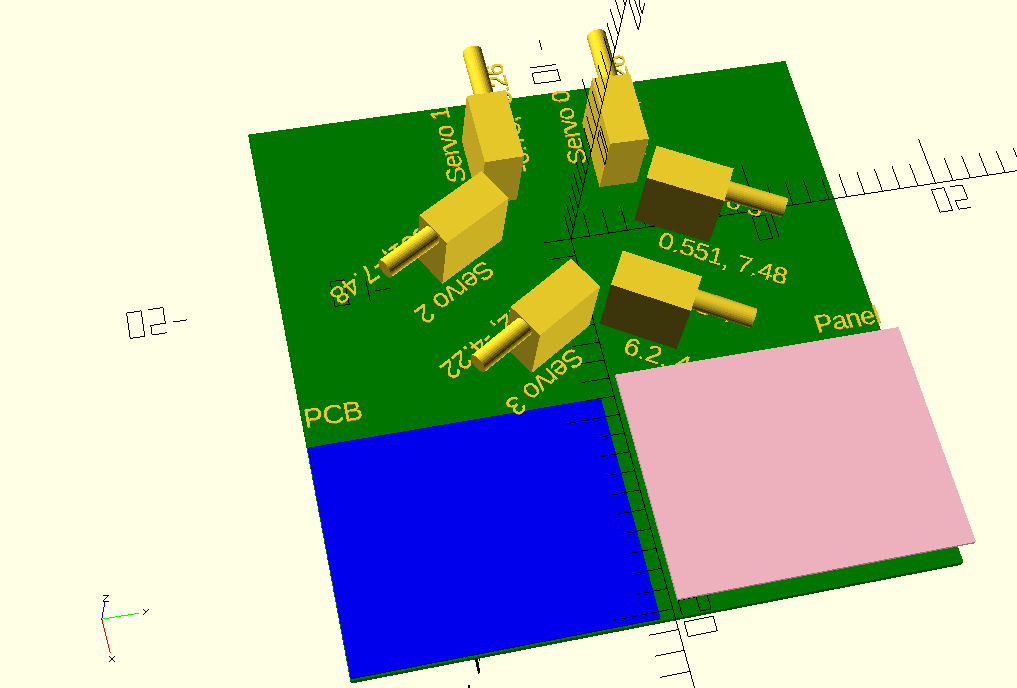
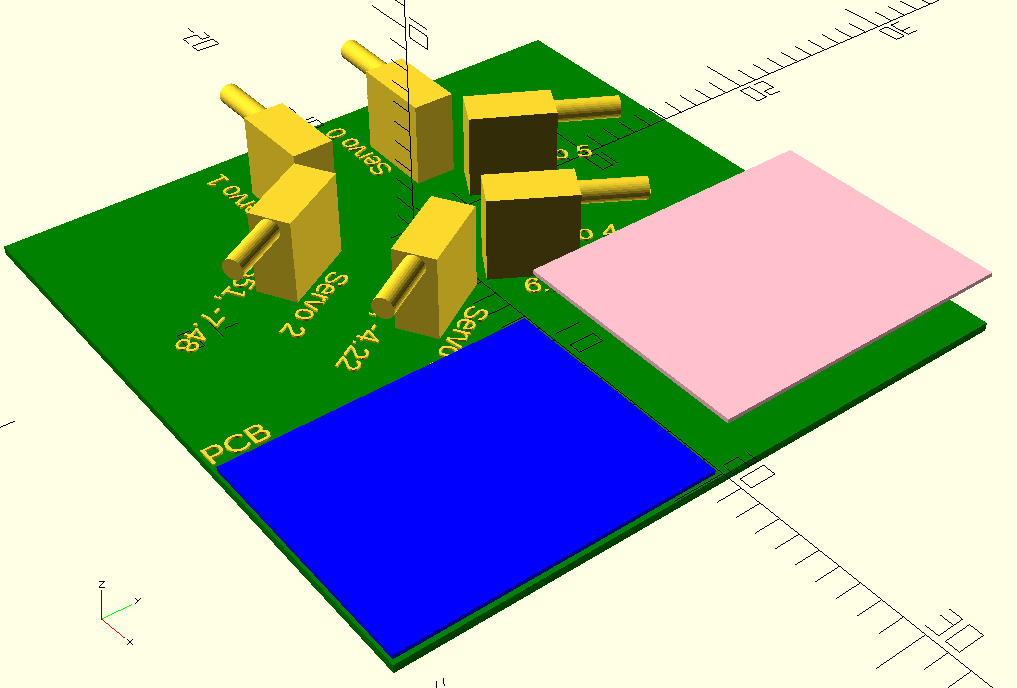
fixes

diff --git a/stewart.cpp b/stewart.cpp
@@ -1509,16 +1509,16 @@ color([1,0,0]) text(name, size=1);\n");
   fprintf (stdout, "radius = %g;\n", base_radius);
   
   // base
-  fprintf (stdout, "translate([-10, -15, -2]) color(\"green\") \
+  fprintf (stdout, "translate([-10, -15, -.5]) color(\"green\") \
 	   cube([30, 30, .4]);\n");
 
   // pcb
-  fprintf (stdout, "translate([8.5, -15, -1.3]) color(\"blue\")		\
+  fprintf (stdout, "translate([8.5, -15, 0.2]) color(\"blue\")		\
 	   cube([11.5, 14.6, .2]);\n");
   fprintf (stdout, "linear_extrude(.1) translate([8, -15, 5.14]) color([1,0,0]) rotate([0, 0, 90]) {text(\"PCB\", size=1);}\n");
 
   // panel
-  fprintf (stdout, "translate([8.5, -0, 1.2]) color(\"pink\")		\
+  fprintf (stdout, "translate([8.5, -0, 2.5]) color(\"pink\")		\
 	   cube([11.5, 14.6, .2]);\n");
   fprintf (stdout, "linear_extrude(.1) translate([7.5, 11, 0]) color([1,0,0]) rotate([0, 0, 90]) {text(\"Panel\", size=1);}\n");
 
